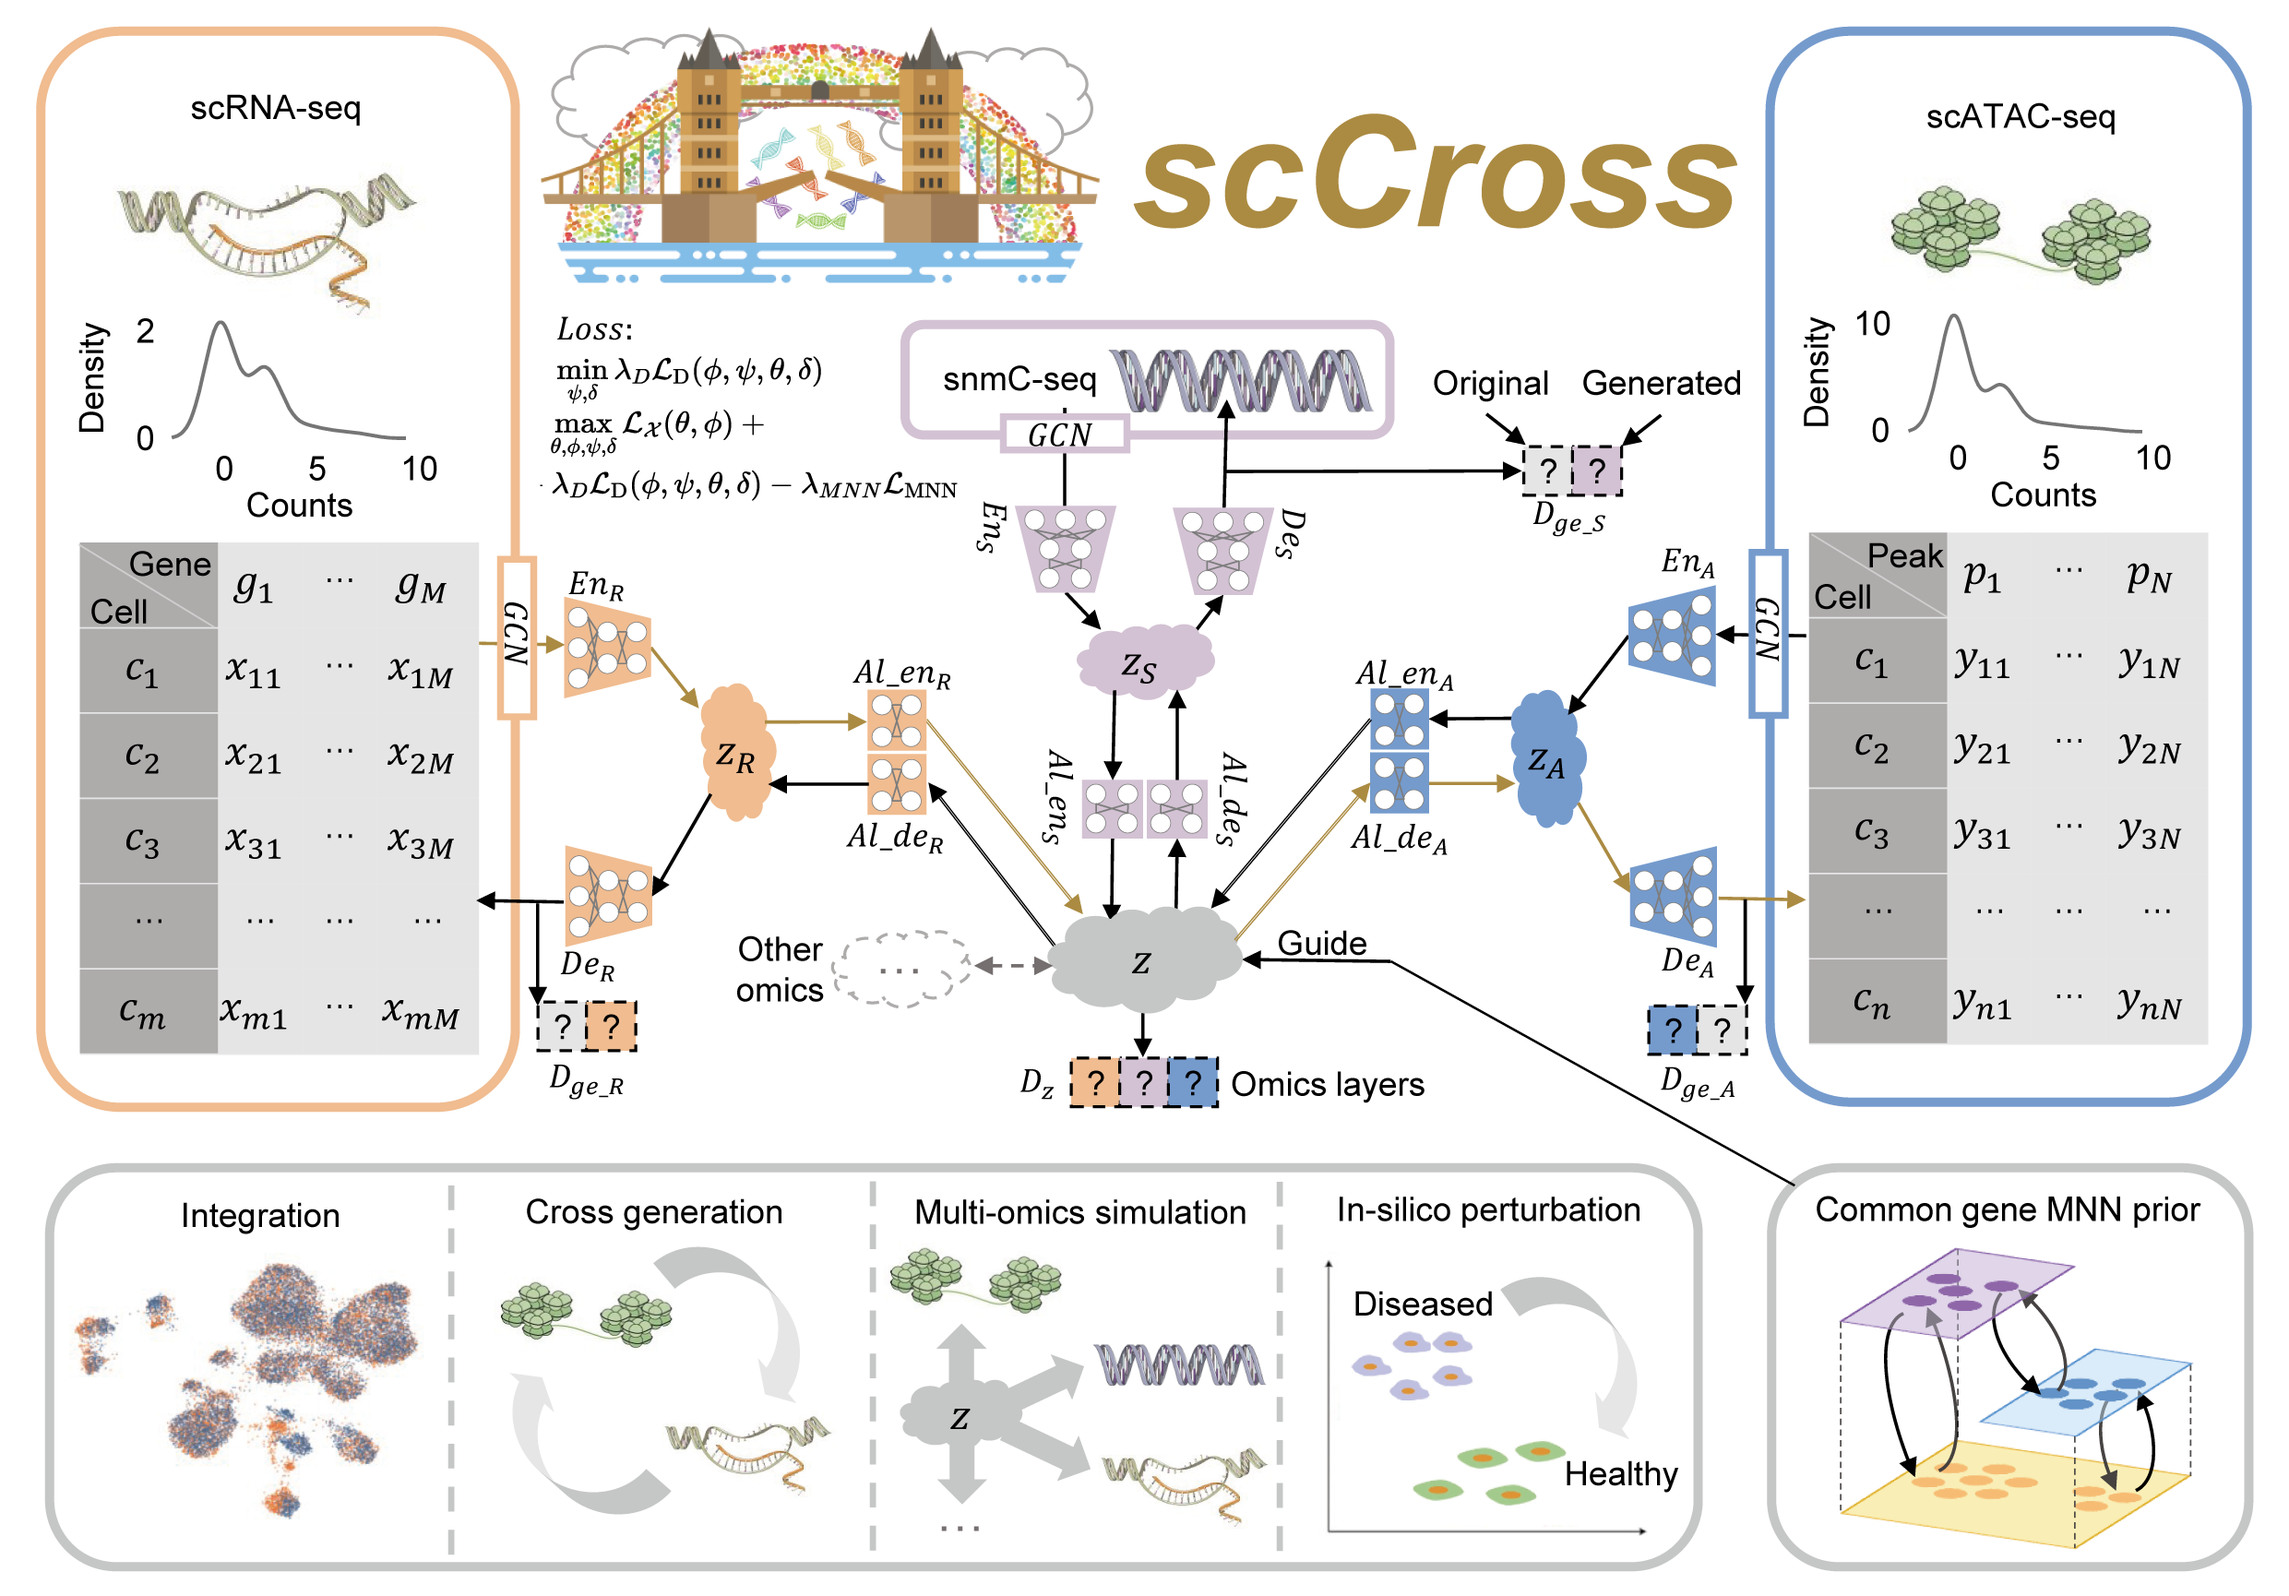
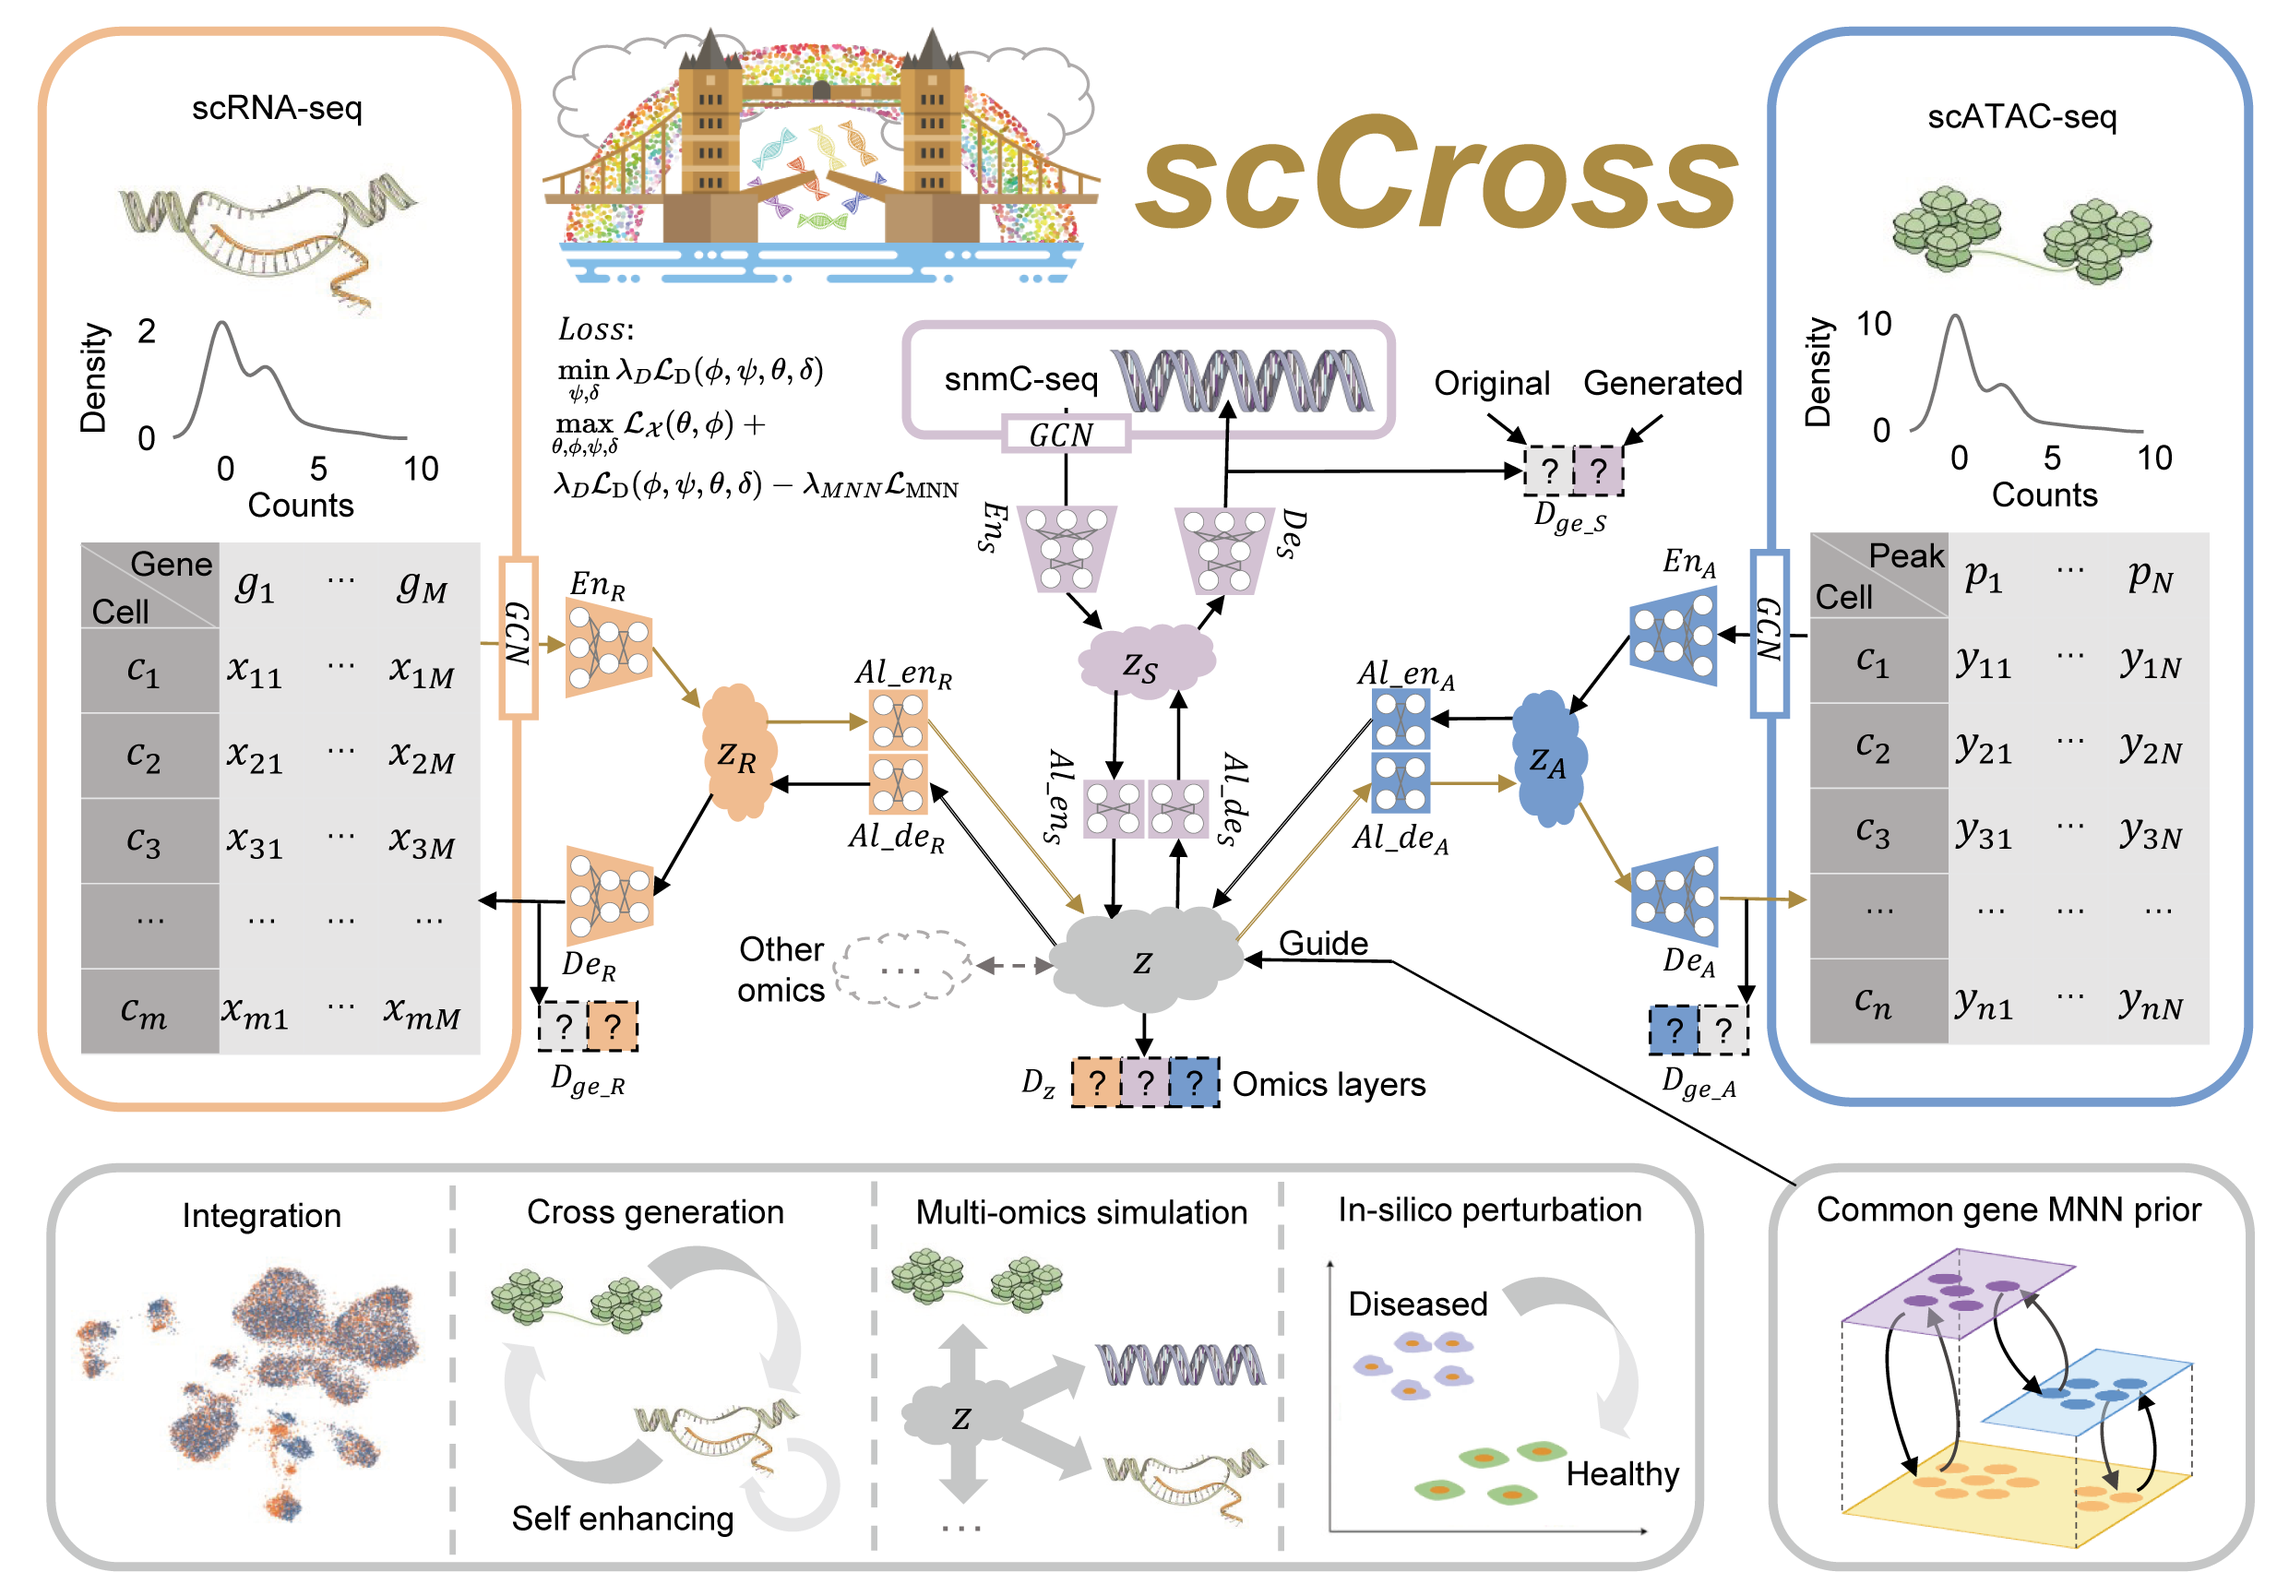
latest

diff --git a/README.md b/README.md
@@ -1,8 +1,8 @@
 # scCross
-A Deep Learning-Based Model for integration, cross-dataset cross-modality generation and matched muti-omics simulation of single-cell multi-omics data. Our model can also maintain in-silico perturbations in cross-modality generation and can use in-silico perturbations to find key genes.  
+A Deep Learning-Based Model for the integration, cross-dataset cross-modality generation, self enhancing and matched multi-omics simulation of single-cell multi-omics data. Our model excels at maintaining in-silico perturbations during cross-modality generation and harnessing these perturbations to identify key genes.
 
-Instructions, documentation, and tutorials can be found at:  
-
+For detailed instructions, comprehensive documentation, and helpful tutorials, please visit:
+  
 * [https://sccross.readthedocs.io](https://sccross.readthedocs.io/en/latest/)
 
 
@@ -12,11 +12,22 @@ Single-cell multi-omics provides deep biological insights, but data scarcity and
 
 ## Key Capabilities
 
-1. Integrate more than three matched or unmatchd sinlge cell multi-omics datasets of totally different or partly same kinds of omics into one latent space which can be used in following downsteam analysis. The cell amount can be over 4 million.
-2. Cross generate abitary two kinds of single cell data in training set to each other.
-3. Simulate matched single cell muti-omics data of a special cellular status in arbitary kind of omics and arbitary amount.
-4. Find key genes precisely in comparing two kinds of cell clusters via in-silico pertubation.
-5. Effectively maintain genome changing when perturbating one omics and cross generating to to other omics.
+1. Combine more than three single-cell multi-omics datasets, whether they are matched or unmatched, into a unified latent space. This space can be used for downstream analysis, even when dealing with over 4 million cells of varying types.
+
+2. Generate cross-compatible single-cell data between two different types in the training set.
+
+3. Enhance single-cell omics data through self-improvement techniques.
+
+4. Simulate single-cell multi-omics data that match a specific cellular state, irrespective of the type and quantity of omics data involved.
+
+5. Accurately identify key genes by comparing two different cell clusters using in-silico perturbation methods.
+
+6. Maintain genomic integrity during omics perturbations and cross-generations effectively.
+
+
+
+
+
 
 
 ## Installation

diff --git a/docs/index.rst b/docs/index.rst
@@ -3,7 +3,8 @@ Welcome to scCross' documentation!
 
 
 
-``scCross``  A Deep Learning-Based Model for integration, cross-dataset cross-modality generation and matched muti-omics simulation of single-cell multi-omics data. Our model can also maintain in-silico perturbations in cross-modality generation and can use in-silico perturbations to find key genes.
+``scCross``  A Deep Learning-Based Model for the integration, cross-dataset cross-modality generation, self enhancing and matched multi-omics simulation of single-cell multi-omics data. Our model excels at maintaining in-silico perturbations during cross-modality generation and harnessing these perturbations to identify key genes.
+
 
 .. image:: _static/main.png
    :width: 800
